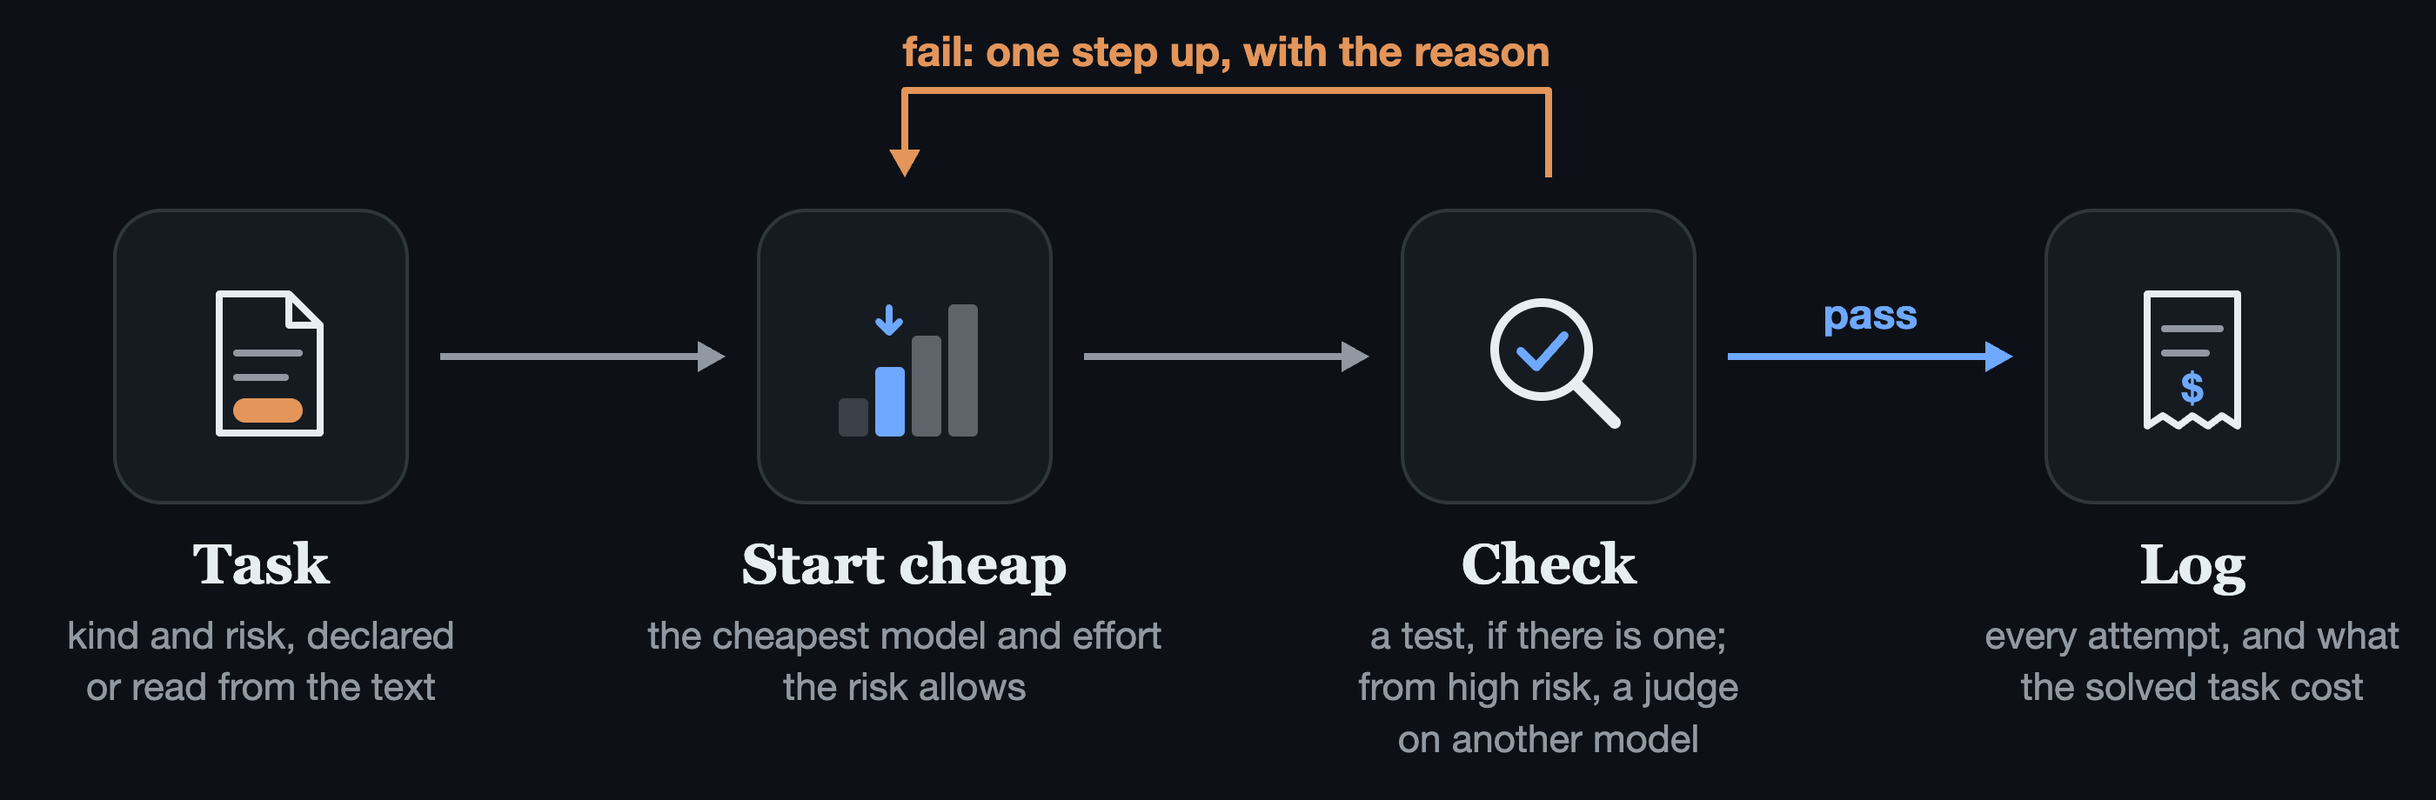
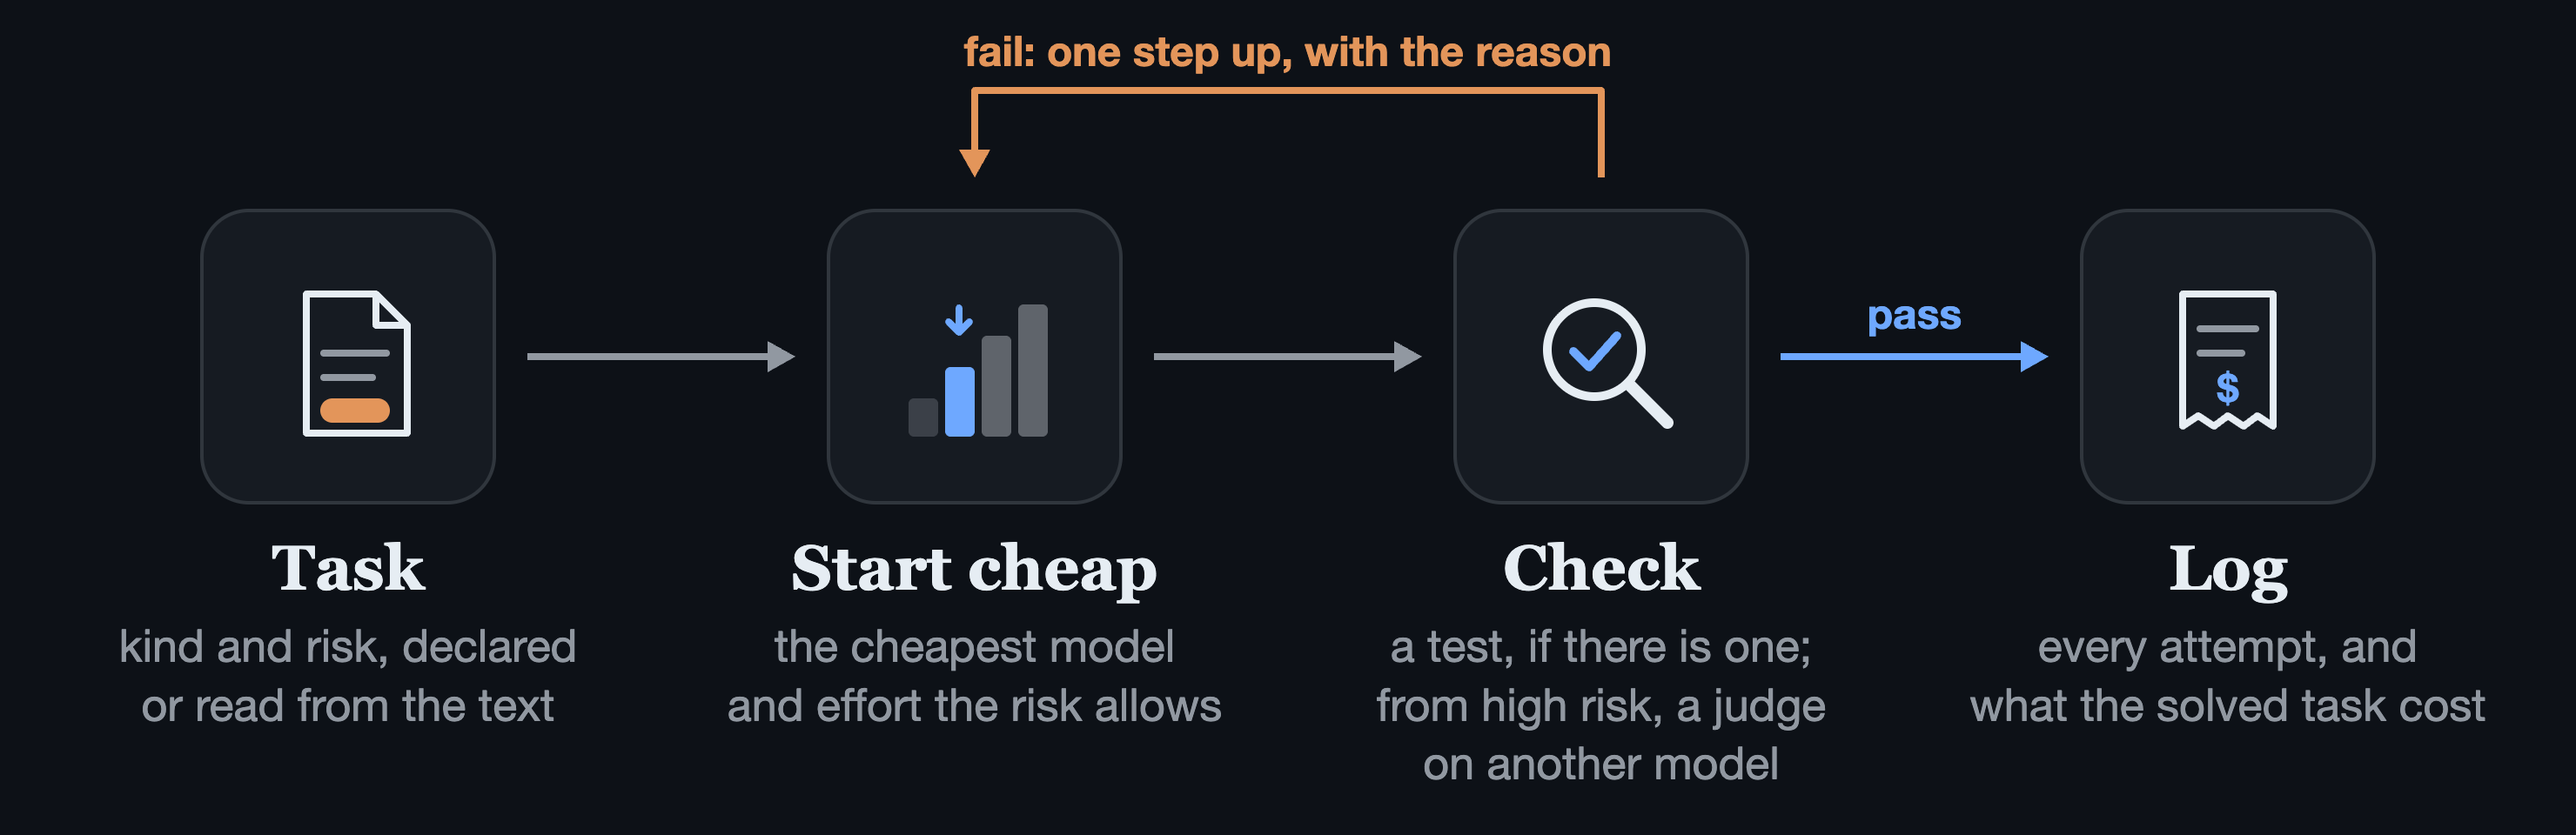
Flow figure: larger captions with margins; CI badge pinned to main
Claude-Session: https://claude.ai/code/session_01UVUHZZajvXq366YFso8yEb

diff --git a/docs/showcase/flow.py b/docs/showcase/flow.py
@@ -17,11 +17,12 @@ from pathlib import Path
 
 HERE = Path(__file__).resolve().parent
 CHROME = "/Applications/Google Chrome.app/Contents/MacOS/Google Chrome"
-CANVAS_W, CANVAS_H = 1400, 460
+CANVAS_W, CANVAS_H = 1480, 480
 SCALE = 2  # captured at twice the canvas, so the figure is sharp at any width GitHub shows it
 NODE = 170  # side of a symbol's square
 NODE_TOP = 120
-CENTRES = (150, 520, 890, 1260)  # x of the four symbols
+CENTRES = (200, 560, 920, 1280)  # x of the four symbols
+CAPTION_W = 350  # a caption's width: the gap between two centres, less a margin
 ARROW_LENGTH, ARROW_HALF_WIDTH = 16, 9
 TITLE_FONT = "Georgia, 'Times New Roman', serif"
 BODY_FONT = "'Helvetica Neue', Helvetica, Arial, sans-serif"
@@ -47,9 +48,9 @@ DARK = Theme("dark", "#0d1117", "#161b22", "#30363d", "#e6edf3", "#9198a1", "#6e
 
 STEPS = (
     ("Task", "kind and risk, declared<br>or read from the text"),
-    ("Start cheap", "the cheapest model and effort<br>the risk allows"),
+    ("Start cheap", "the cheapest model<br>and effort the risk allows"),
     ("Check", "a test, if there is one;<br>from high risk, a judge<br>on another model"),
-    ("Log", "every attempt, and what<br>the solved task cost"),
+    ("Log", "every attempt, and<br>what the solved task cost"),
 )
 
 
@@ -134,16 +135,16 @@ def page(t: Theme) -> str:
       <div class="node" style="left:{left}px;top:{NODE_TOP}px">
         <svg width="92" height="92" viewBox="0 0 92 92">{icon(t)}</svg>
       </div>
-      <div class="title" style="left:{centre - 160}px;top:{NODE_TOP + NODE + 16}px">{title}</div>
-      <div class="line" style="left:{centre - 160}px;top:{NODE_TOP + NODE + 60}px">{line}</div>""")
+      <div class="title" style="left:{centre - CAPTION_W / 2}px;top:{NODE_TOP + NODE + 16}px">{title}</div>
+      <div class="line" style="left:{centre - CAPTION_W / 2}px;top:{NODE_TOP + NODE + 64}px">{line}</div>""")
     return f"""<!doctype html><html><head><meta charset="utf-8"><style>
       html, body {{ margin:0; background:{t.page}; }}
       .canvas {{ position:relative; width:{CANVAS_W}px; height:{CANVAS_H}px; background:{t.page}; }}
       .node {{ position:absolute; width:{NODE}px; height:{NODE}px; box-sizing:border-box; border-radius:28px;
                background:{t.node}; border:2px solid {t.border}; display:flex; align-items:center;
                justify-content:center; }}
-      .title {{ position:absolute; width:320px; text-align:center; font:700 32px {TITLE_FONT}; color:{t.text}; }}
-      .line {{ position:absolute; width:320px; text-align:center; font:400 22px/1.35 {BODY_FONT};
+      .title {{ position:absolute; width:{CAPTION_W}px; text-align:center; font:700 36px {TITLE_FONT}; color:{t.text}; }}
+      .line {{ position:absolute; width:{CAPTION_W}px; text-align:center; font:400 26px/1.3 {BODY_FONT};
                color:{t.secondary}; }}
       svg.wires {{ position:absolute; left:0; top:0; }}
     </style></head><body><div class="canvas">

diff --git a/README.md b/README.md
@@ -1,6 +1,6 @@
 # model-router
 
-[![ci](https://github.com/dcamunas/model-router/actions/workflows/ci.yml/badge.svg)](https://github.com/dcamunas/model-router/actions/workflows/ci.yml)
+[![ci](https://github.com/dcamunas/model-router/actions/workflows/ci.yml/badge.svg?branch=main)](https://github.com/dcamunas/model-router/actions/workflows/ci.yml)
 [![release](https://img.shields.io/github/v/release/dcamunas/model-router)](https://github.com/dcamunas/model-router/releases)
 [![python](https://img.shields.io/badge/python-3.12%2B-blue)](pyproject.toml)
 [![licence](https://img.shields.io/github/license/dcamunas/model-router)](LICENSE)
